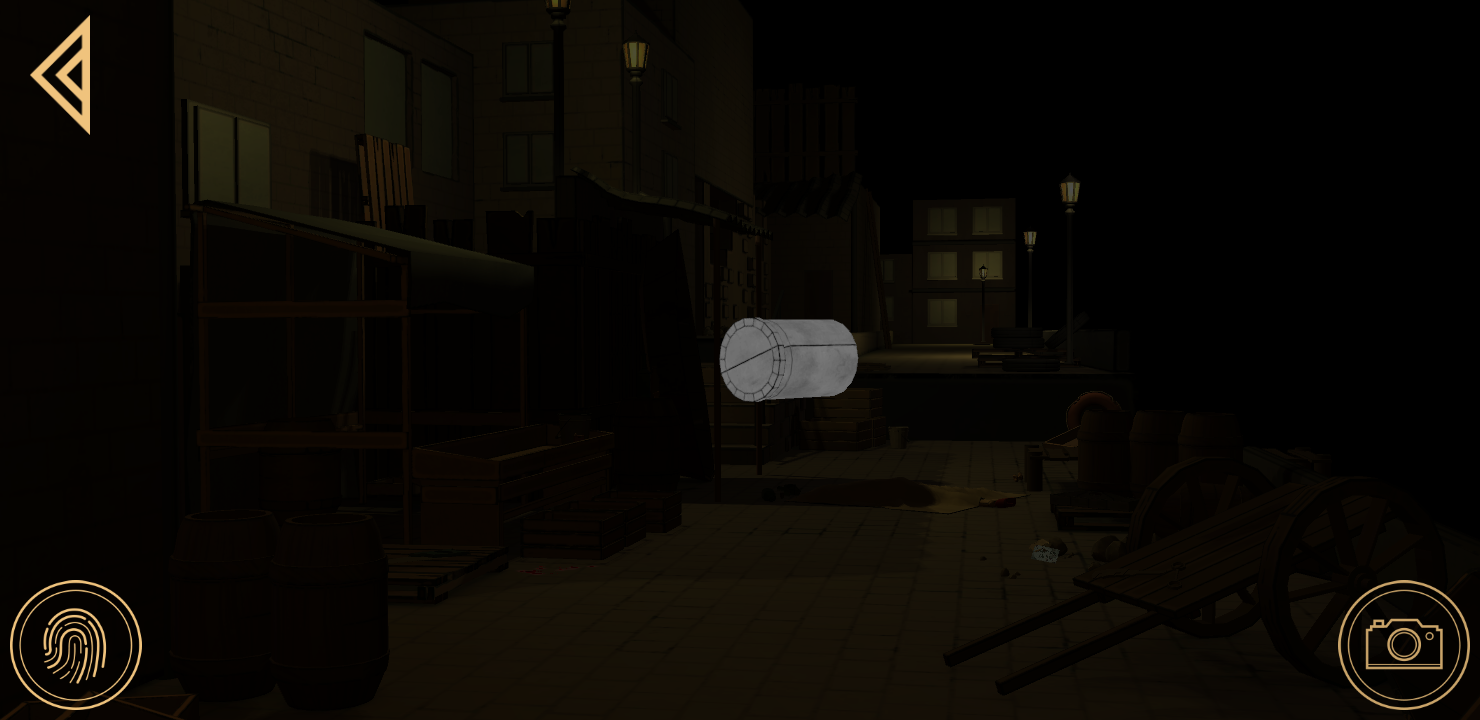
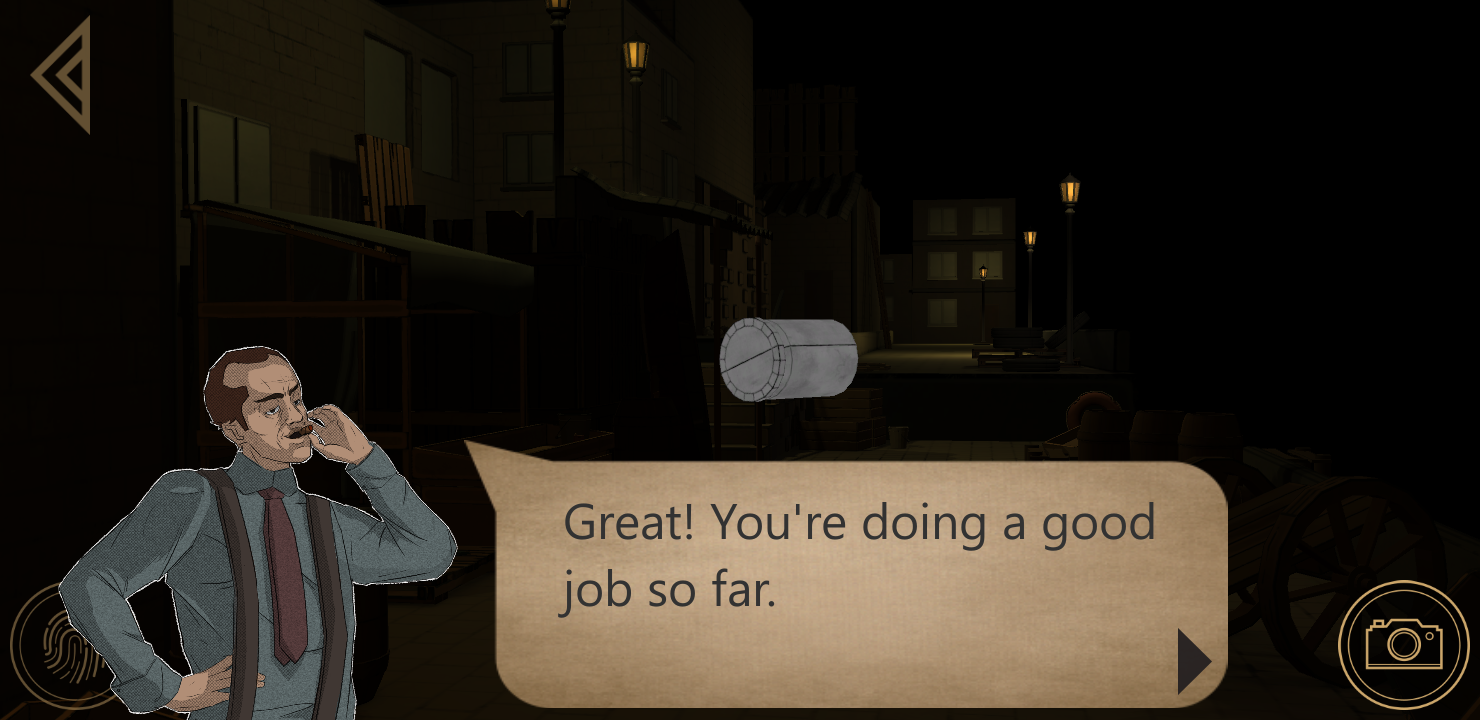
Update à l'armoricaine

diff --git a/Dev/BlackWater Crimes Project/Assets/Scripts/EliotDev/TutorialScript.cs b/Dev/BlackWater Crimes Project/Assets/Scripts/EliotDev/TutorialScript.cs
@@ -22,6 +22,15 @@ public class TutorialScript : SerializedMonoBehaviour
     [MultiLineProperty(3)]
     public List<string> secondDialogueEnglishTexts = new List<string>();
 
+    [MultiLineProperty(3)]
+    public List<string> thirdDialogueEnglishTexts = new List<string>();
+
+    [MultiLineProperty(3)]
+    public List<string> fourthDialogueEnglishTexts = new List<string>();
+
+    [MultiLineProperty(3)]
+    public List<string> fifthDialogueEnglishTexts = new List<string>();
+
     int textIndex = 0;
     List<string> currentDialogue = new List<string>();
 
@@ -32,6 +41,10 @@ public class TutorialScript : SerializedMonoBehaviour
     public EvidenceInteraction evidenceScript;
 
     bool waitingForDouilleInteraction = false;
+    bool waitingForDouillePhotograph = false;
+    bool waitingForDouilleDezoom = false;
+
+    bool waitingForLettreInteraction = false;
 
 
 
@@ -51,6 +64,41 @@ public class TutorialScript : SerializedMonoBehaviour
                 waitingForDouilleInteraction = false;
                 dialogueCanvas.SetActive(true);
                 currentDialogue = secondDialogueEnglishTexts;
+                NextLine();
+            }
+        }
+
+        if(waitingForDouillePhotograph) 
+        {
+            if(evidenceScript.currentEvidenceHeld.GetComponent<EvidenceObject>().data.photographed)
+            {
+                waitingForDouillePhotograph = false;
+                dialogueCanvas.SetActive(true);
+                currentDialogue = thirdDialogueEnglishTexts;
+                NextLine();
+            }
+        }
+
+        if(waitingForDouilleDezoom) 
+        {
+            if(evidenceScript.currentEvidenceHeld == null)
+            {
+                waitingForDouilleDezoom = false;
+                dialogueCanvas.SetActive(true);
+                currentDialogue = fourthDialogueEnglishTexts;
+                NextLine();
+            }
+        }
+
+        if(waitingForLettreInteraction) 
+        {
+            if(evidenceScript.currentEvidenceHeld == clues["Lettre"])
+            {
+                waitingForLettreInteraction = false;
+                dialogueCanvas.SetActive(true);
+                currentDialogue = fifthDialogueEnglishTexts;
+                buttons["Photo"].interactable = false;
+                buttons["Dezoom"].interactable = false;
                 NextLine();
             }
         }
@@ -112,6 +160,29 @@ public class TutorialScript : SerializedMonoBehaviour
                 collider.enabled = true;
             }
             waitingForDouilleInteraction = true;
+        }
+
+        if(currentDialogue == secondDialogueEnglishTexts)
+        {
+            buttons["Photo"].interactable = true;
+            waitingForDouillePhotograph = true;
+        }
+
+        if(currentDialogue == thirdDialogueEnglishTexts)
+        {
+            buttons["Dezoom"].interactable = true;
+            waitingForDouilleDezoom = true;
+        }
+
+        if(currentDialogue == fourthDialogueEnglishTexts)
+        {
+            buttons["UpCamera"].interactable = true;
+            clues["Lettre"].GetComponent<Collider>().enabled = true;
+            foreach(Collider collider in clues["Lettre"].GetComponentsInChildren<Collider>())
+            {
+                collider.enabled = true;
+            }
+            waitingForLettreInteraction = true;
         }
     }
 
